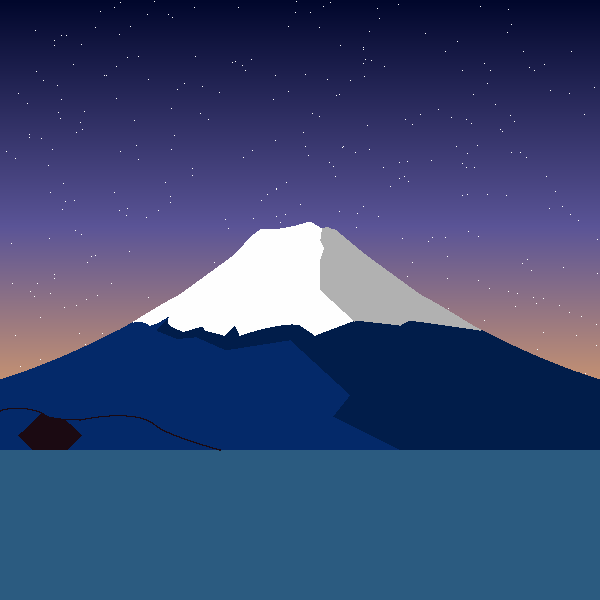
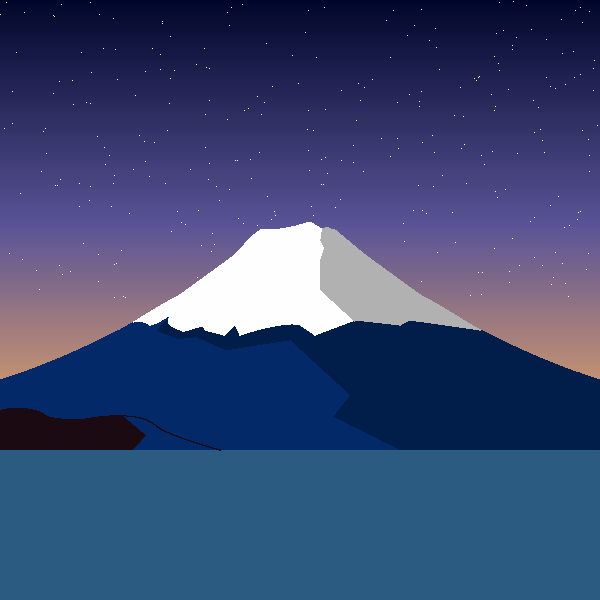
update star

Changed region(s): [[0.12, 0.69, 0.24, 0.75], [0.0, 0.66, 0.06, 0.75]]

diff --git a/NewYear.java b/NewYear.java
@@ -71,13 +71,11 @@ public class NewYear extends JPanel implements MouseListener{
     
     private void paintStar(Graphics g) {
         g.setColor(ColorEnum.STAR.getColor());
-        //test star
         Random rand = new Random();
-        int starCnt = 400;
+        int starCnt = 300;
         for (int i = 0; i < starCnt; i++) {
-            plot(g, rand.nextInt(panelWidth), rand.nextInt(450));
+            plot(g, rand.nextInt(panelWidth), rand.nextInt(300));
         }
-        //end test star
     }
 
     private void paintWater(Graphics2D g) {
